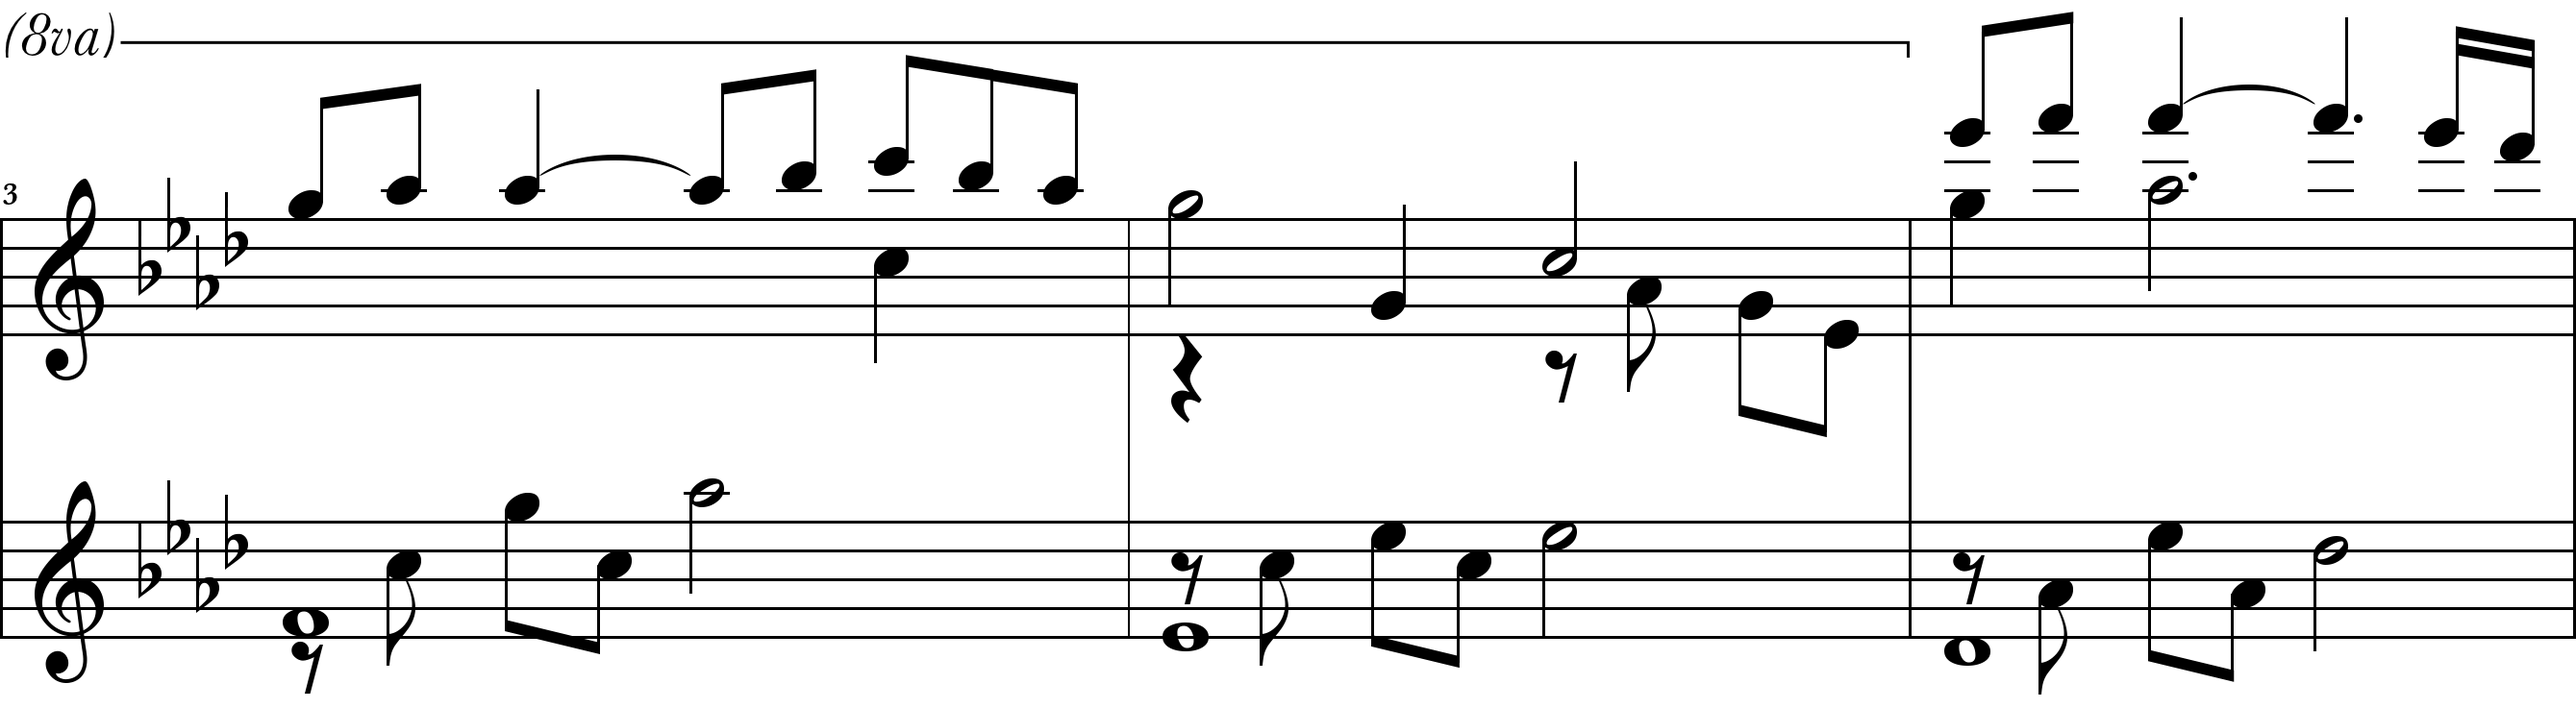
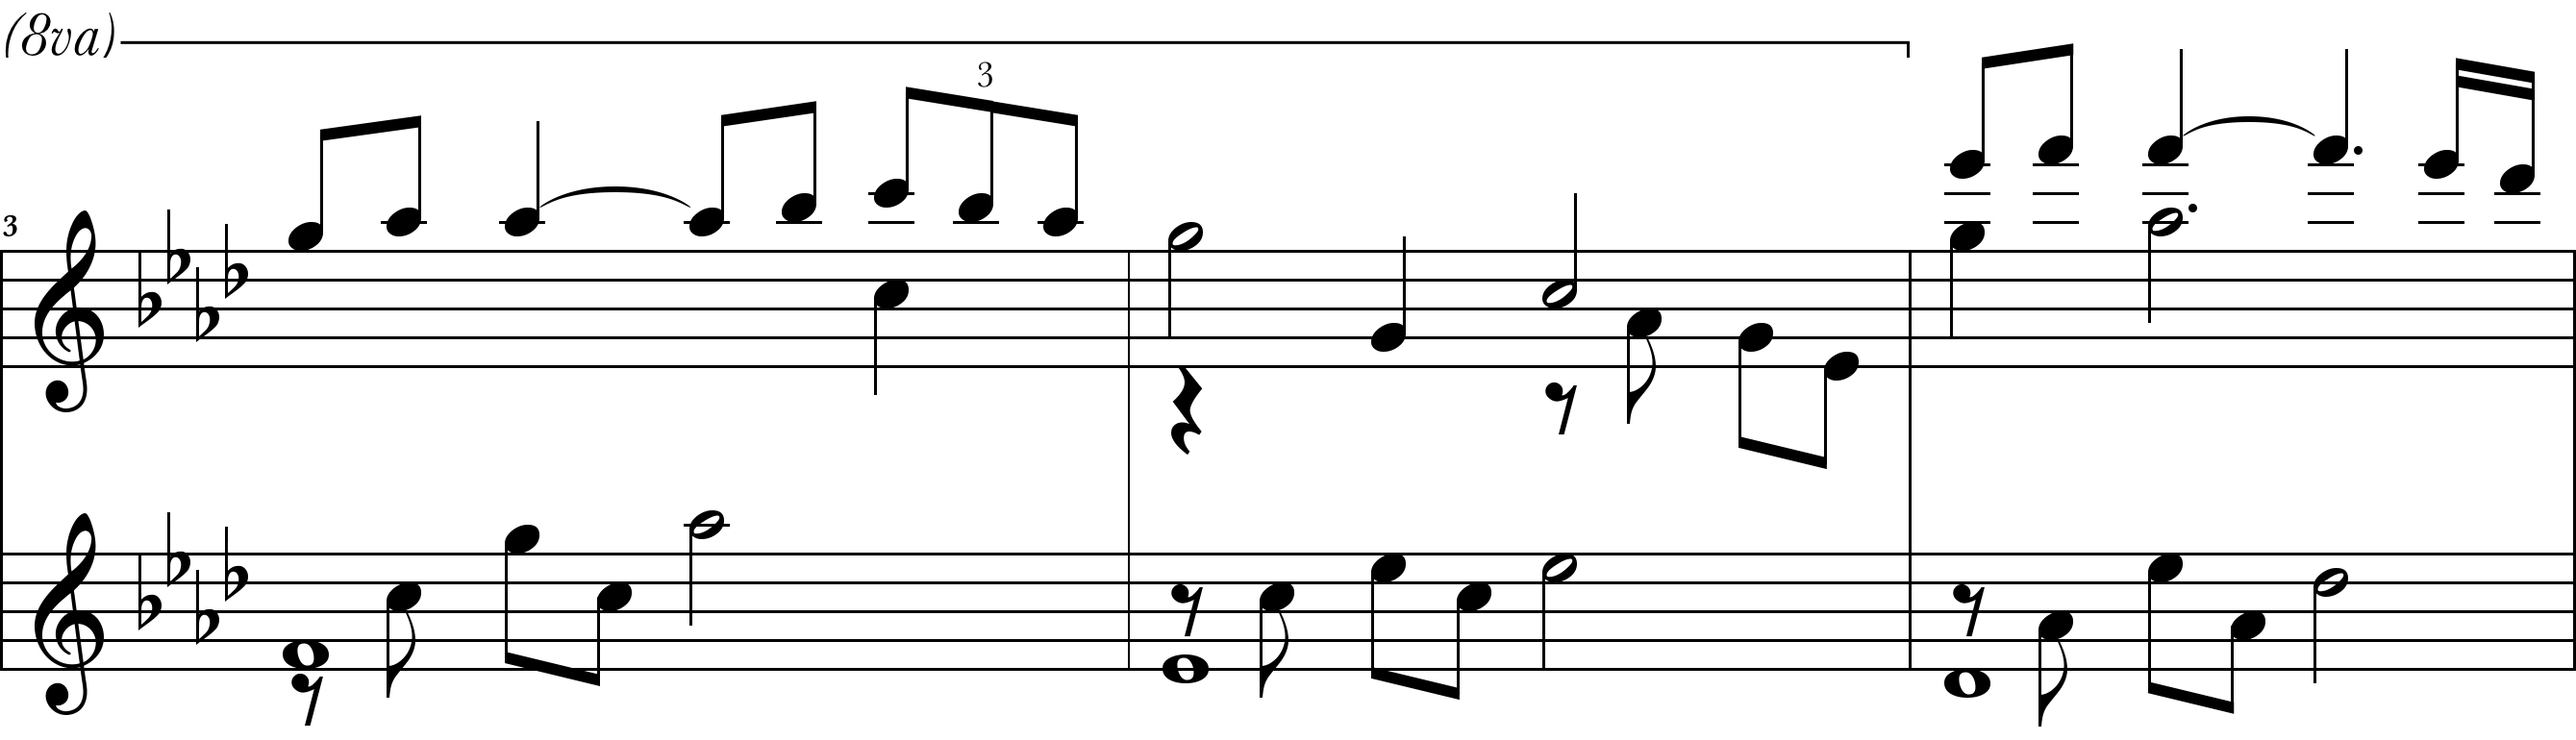
Add support for tuplets
Fix venturemedia/intune-ios#200

diff --git a/MusicKitAppTests/VMKTieLayerTests.mm b/MusicKitAppTests/VMKTieLayerTests.mm
@@ -125,9 +125,9 @@ using namespace mxml::dom;
         articulation->setType(dom::Articulation::Type::Accent);
 
         auto notations = std::unique_ptr<dom::Notations>(new Notations{});
-        notations->addSlur(std::move(slur));
-        notations->addArticulation(std::move(articulation));
-        note->setNotations(std::move(notations));
+        notations->slurs.push_back(std::move(slur));
+        notations->articulations.push_back(std::move(articulation));
+        note->notations = std::move(notations);
     }
     {
         auto note = builder->addNote(self.measure, mxml::dom::Note::Type::Quarter, time++, 1);
@@ -148,9 +148,9 @@ using namespace mxml::dom;
         articulation->setType(dom::Articulation::Type::Staccato);
 
         auto notations = std::unique_ptr<dom::Notations>(new Notations{});
-        notations->addSlur(std::move(slur));
-        notations->addArticulation(std::move(articulation));
-        note->setNotations(std::move(notations));
+        notations->slurs.push_back(std::move(slur));
+        notations->articulations.push_back(std::move(articulation));
+        note->notations = std::move(notations);
     }
 
     auto score = builder->build();
@@ -178,9 +178,9 @@ using namespace mxml::dom;
         articulation->setType(dom::Articulation::Type::Accent);
 
         auto notations = std::unique_ptr<dom::Notations>(new Notations{});
-        notations->addSlur(std::move(slur));
-        notations->addArticulation(std::move(articulation));
-        note->setNotations(std::move(notations));
+        notations->slurs.push_back(std::move(slur));
+        notations->articulations.push_back(std::move(articulation));
+        note->notations = std::move(notations);
     }
     {
         auto note = builder->addNote(self.measure, mxml::dom::Note::Type::Quarter, time++, 1);
@@ -201,9 +201,9 @@ using namespace mxml::dom;
         articulation->setType(dom::Articulation::Type::Staccato);
 
         auto notations = std::unique_ptr<dom::Notations>(new Notations{});
-        notations->addSlur(std::move(slur));
-        notations->addArticulation(std::move(articulation));
-        note->setNotations(std::move(notations));
+        notations->slurs.push_back(std::move(slur));
+        notations->articulations.push_back(std::move(articulation));
+        note->notations = std::move(notations);
     }
 
     auto score = builder->build();
@@ -228,8 +228,8 @@ using namespace mxml::dom;
         slur->setType(dom::kStart);
 
         auto notations = std::unique_ptr<dom::Notations>(new Notations{});
-        notations->addSlur(std::move(slur));
-        note->setNotations(std::move(notations));
+        notations->slurs.push_back(std::move(slur));
+        note->notations = std::move(notations);
     }
     {
         auto note = builder->addNote(self.measure, mxml::dom::Note::Type::Quarter, time++, 1);
@@ -243,8 +243,8 @@ using namespace mxml::dom;
         slur->setType(dom::kStop);
 
         auto notations = std::unique_ptr<dom::Notations>(new Notations{});
-        notations->addSlur(std::move(slur));
-        note->setNotations(std::move(notations));
+        notations->slurs.push_back(std::move(slur));
+        note->notations = std::move(notations);
     }
 
     auto score = builder->build();
@@ -269,8 +269,8 @@ using namespace mxml::dom;
         slur->setType(dom::kStart);
 
         auto notations = std::unique_ptr<dom::Notations>(new Notations{});
-        notations->addSlur(std::move(slur));
-        note->setNotations(std::move(notations));
+        notations->slurs.push_back(std::move(slur));
+        note->notations = std::move(notations);
     }
     {
         auto note = builder->addNote(self.measure, mxml::dom::Note::Type::Quarter, time++, 1);
@@ -284,8 +284,8 @@ using namespace mxml::dom;
         slur->setType(dom::kStop);
 
         auto notations = std::unique_ptr<dom::Notations>(new Notations{});
-        notations->addSlur(std::move(slur));
-        note->setNotations(std::move(notations));
+        notations->slurs.push_back(std::move(slur));
+        note->notations = std::move(notations);
     }
 
     auto score = builder->build();

diff --git a/MusicKit/Layers/VMKTupletLayer.mm b/MusicKit/Layers/VMKTupletLayer.mm
@@ -1,0 +1,87 @@
+//  Copyright (c) 2015 Venture Media Labs. All rights reserved.
+
+#import "VMKTupletLayer.h"
+#import "VMKGeometry.h"
+#import <CoreText/CoreText.h>
+
+
+@implementation VMKTupletLayer
+
+- (instancetype)initWithTupletGeometry:(const mxml::TupletGeometry*)tupletGeometry {
+    return [super initWithGeometry:tupletGeometry];
+}
+
+- (const mxml::TupletGeometry*)tupletGeometry {
+    return static_cast<const mxml::TupletGeometry*>(self.geometry);
+}
+
+- (void)setTupletGeometry:(const mxml::TupletGeometry*)tupletGeometry {
+    self.geometry = tupletGeometry;
+}
+
+- (void)setGeometry:(const mxml::Geometry*)geometry {
+    [super setGeometry:geometry];
+    [self setNeedsDisplay];
+}
+
+- (void)drawInContext:(CGContextRef)ctx {
+    static const CGFloat kLineWidth = 1.0;
+
+    CGContextSetFillColorWithColor(ctx, self.backgroundColor);
+    CGContextSetStrokeColorWithColor(ctx, self.foregroundColor.CGColor);
+
+    auto geom = self.tupletGeometry;
+
+    CTFontRef font = CTFontCreateWithName(CFSTR("Baskerville"), 13.0, NULL);
+    NSDictionary* attribs = @{ (id)kCTFontAttributeName: (__bridge id)font };
+    NSString* stringToDraw = [NSString stringWithFormat:@"%d", geom->displayNumber()];
+    NSMutableAttributedString* attributedStringToDraw = [[NSMutableAttributedString alloc] initWithString:stringToDraw attributes:attribs];
+
+    // Flip the context coordinates
+    CGContextTranslateCTM(ctx, 0, self.bounds.size.height);
+    CGContextScaleCTM(ctx, 1.0, -1.0);
+
+    // draw
+    CGContextSetTextMatrix(ctx, CGAffineTransformIdentity);
+    CGContextSetTextPosition(ctx, CGRectGetMidX(self.bounds), 1);
+    CTLineRef line = CTLineCreateWithAttributedString((CFAttributedStringRef)attributedStringToDraw);
+
+    CGRect textBounds = CTLineGetImageBounds(line, ctx);
+    CGContextFillRect(ctx, textBounds);
+    CTLineDraw(line, ctx);
+
+    // clean up
+    CFRelease(line);
+    CFRelease(font);
+    CGContextScaleCTM(ctx, 1.0, -1.0);
+    CGContextTranslateCTM(ctx, 0, -self.bounds.size.height);
+
+    // Draw bracket
+    if (geom->bracket()) {
+        CGContextSetFillColorWithColor(ctx, self.foregroundColor.CGColor);
+
+        CGRect bounds = self.bounds;
+        CGRect lineRect;
+
+        lineRect.origin.x = 0;
+        lineRect.origin.y = CGRectGetMidY(bounds);
+        lineRect.size.width = kLineWidth;
+        lineRect.size.height = CGRectGetHeight(bounds)/2;
+        CGContextFillRect(ctx, VMKRoundRect(lineRect));
+
+        lineRect.origin.x = CGRectGetMaxX(bounds) - kLineWidth;
+        CGContextFillRect(ctx, VMKRoundRect(lineRect));
+
+        lineRect.origin.x = 0;
+        lineRect.size.width = CGRectGetMinX(textBounds) - 4;
+        lineRect.size.height = kLineWidth;
+        CGContextFillRect(ctx, VMKRoundRect(lineRect));
+
+        lineRect.origin.x = CGRectGetMaxX(textBounds) + 4;
+        lineRect.size.width = CGRectGetWidth(bounds) - lineRect.origin.x;
+        CGContextFillRect(ctx, VMKRoundRect(lineRect));
+    }
+}
+
+
+@end

diff --git a/MusicKitAppTests/VMKTupletLayerTests.mm b/MusicKitAppTests/VMKTupletLayerTests.mm
@@ -1,0 +1,75 @@
+//  Copyright (c) 2015 Venture Media Labs. All rights reserved.
+
+#import "VMKAdHocScoreTestCase.h"
+#import "VMKPartLayer.h"
+#import "VMKTieLayer.h"
+
+#include <mxml/dom/Tuplet.h>
+#include <mxml/geometry/PartGeometry.h>
+#include <mxml/geometry/ScrollScoreGeometry.h>
+#include <mxml/geometry/factories/TieGeometryFactory.h>
+
+using namespace mxml;
+
+
+@interface VMKTupletLayerTests : VMKAdHocScoreTestCase
+
+@end
+
+
+@implementation VMKTupletLayerTests
+
+- (void)testTuplet {
+    auto builder = self.builder;
+    auto time = dom::time_t{};
+
+    {
+        auto note = builder->addNote(self.measure, mxml::dom::Note::Type::Quarter, time++, 1);
+        builder->setPitch(note, mxml::dom::Pitch::Step::E, 5);
+
+        note->timeModification.reset(new dom::TimeModification{});
+        note->timeModification->actualNotes = 3;
+        note->timeModification->normalNotes = 2;
+
+        auto tuplet = std::unique_ptr<dom::Tuplet>(new dom::Tuplet{});
+        tuplet->type = dom::Tuplet::Type::Start;
+
+        auto notations = std::unique_ptr<dom::Notations>(new dom::Notations{});
+        notations->tuplets.push_back(std::move(tuplet));
+        note->notations = std::move(notations);
+    }
+    {
+        auto note = builder->addNote(self.measure, mxml::dom::Note::Type::Quarter, time++, 1);
+        builder->setPitch(note, mxml::dom::Pitch::Step::B, 4);
+
+        note->timeModification.reset(new dom::TimeModification{});
+        note->timeModification->actualNotes = 3;
+        note->timeModification->normalNotes = 2;
+    }
+    {
+        auto note = builder->addNote(self.measure, mxml::dom::Note::Type::Quarter, time++, 1);
+        builder->setPitch(note, mxml::dom::Pitch::Step::E, 4);
+
+        note->timeModification.reset(new dom::TimeModification{});
+        note->timeModification->actualNotes = 3;
+        note->timeModification->normalNotes = 2;
+
+        auto tuplet = std::unique_ptr<dom::Tuplet>(new dom::Tuplet{});
+        tuplet->type = dom::Tuplet::Type::Stop;
+
+        auto notations = std::unique_ptr<dom::Notations>(new dom::Notations{});
+        notations->tuplets.push_back(std::move(tuplet));
+        note->notations = std::move(notations);
+    }
+
+    auto score = builder->build();
+    auto scoreGeometry = std::unique_ptr<mxml::ScrollScoreGeometry>(new mxml::ScrollScoreGeometry(*score, true));
+    auto partGeometry = scoreGeometry->partGeometries().front();
+    VMKPartLayer* layer = [[VMKPartLayer alloc] initWithPartGeometry:partGeometry];
+
+    [self calculateRenderingErrors:layer forSelector:_cmd testBlock:^(VMKRenderingErrors errors) {
+        XCTAssertLessThanOrEqual(errors.maximumError, kMaximumError);
+    }];
+}
+
+@end

diff --git a/MusicKitAppTests/VMKChordLayerTests.mm b/MusicKitAppTests/VMKChordLayerTests.mm
@@ -184,7 +184,7 @@ using namespace mxml::dom;
     self.builder->setPitch(note, Pitch::Step::G, 4);
     
     auto placement = std::unique_ptr<EmptyPlacement>(new EmptyPlacement{});
-    note->setDot(std::move(placement));
+    note->dot = std::move(placement);
 
     auto score = self.builder->build();
     ScoreProperties properties(*score, mxml::ScoreProperties::LayoutType::Scroll);
@@ -205,7 +205,7 @@ using namespace mxml::dom;
     self.builder->setPitch(note, Pitch::Step::G, 4);
     
     auto accidential = std::unique_ptr<Accidental>(new Accidental{Accidental::Type::Sharp});
-    note->setAccidental(std::move(accidential));
+    note->accidental = std::move(accidential);
 
     auto score = self.builder->build();
     ScoreProperties properties(*score, mxml::ScoreProperties::LayoutType::Scroll);
@@ -228,8 +228,8 @@ using namespace mxml::dom;
     auto articulation = std::unique_ptr<Articulation>(new Articulation{Articulation::Type::Accent});
     
     auto notations = std::unique_ptr<Notations>(new Notations{});
-    notations->addArticulation(std::move(articulation));
-    note->setNotations(std::move(notations));
+    notations->articulations.push_back(std::move(articulation));
+    note->notations = std::move(notations);
 
     auto score = self.builder->build();
     ScoreProperties properties(*score, mxml::ScoreProperties::LayoutType::Scroll);

diff --git a/MusicKit/Layers/VMKMeasureLayer.mm b/MusicKit/Layers/VMKMeasureLayer.mm
@@ -11,6 +11,7 @@
 #import "VMKNoteHeadLayer.h"
 #import "VMKTieLayer.h"
 #import "VMKTimeSignatureLayer.h"
+#import "VMKTupletLayer.h"
 #import "VMKRestLayer.h"
 
 #include <mxml/Metrics.h>
@@ -20,6 +21,7 @@
 #include <mxml/geometry/ClefGeometry.h>
 #include <mxml/geometry/KeyGeometry.h>
 #include <mxml/geometry/TimeSignatureGeometry.h>
+#include <mxml/geometry/TupletGeometry.h>
 
 #include <iterator>
 #include <limits>
@@ -174,6 +176,11 @@ const CGFloat VMKBarLineWidth = 1;
             VMKRestLayer* layer = [self reusableLayerOfClass:[VMKRestLayer class]];
             [self configureView:layer];
             layer.geometry = rest;
+            [_elementLayers addObject:layer];
+        } else if (const TupletGeometry* tuplet = dynamic_cast<const TupletGeometry*>(geom.get())) {
+            VMKTupletLayer* layer = [self reusableLayerOfClass:[VMKTupletLayer class]];
+            [self configureView:layer];
+            layer.geometry = tuplet;
             [_elementLayers addObject:layer];
         }
     }

diff --git a/MusicKit/Layers/VMKTupletLayer.h b/MusicKit/Layers/VMKTupletLayer.h
@@ -1,0 +1,13 @@
+//  Copyright (c) 2015 Venture Media Labs. All rights reserved.
+
+#import "VMKScoreElementLayer.h"
+#include <mxml/geometry/TupletGeometry.h>
+
+
+@interface VMKTupletLayer : VMKScoreElementLayer
+
+- (instancetype)initWithTupletGeometry:(const mxml::TupletGeometry*)geom;
+
+@property(nonatomic) const mxml::TupletGeometry* tupletGeometry;
+
+@end

diff --git a/MusicKitAppTests/VMKFileScoreTestCase.mm b/MusicKitAppTests/VMKFileScoreTestCase.mm
@@ -13,7 +13,7 @@
     NSBundle* bundle = [NSBundle bundleForClass:[self class]];
     NSString* path = [bundle pathForResource:name ofType:@"xml"];
 
-    mxml::ScoreHandler handler;
+    mxml::parsing::ScoreHandler handler;
     std::ifstream is([path UTF8String]);
     lxml::parse(is, [path UTF8String], handler);
     return handler.result();

diff --git a/MusicKitAppTests/VMKBeamLayerTests.mm b/MusicKitAppTests/VMKBeamLayerTests.mm
@@ -233,7 +233,7 @@ using namespace mxml::dom;
     note2->setStem(Stem::Down);
     
     auto accidental = std::unique_ptr<Accidental>(new Accidental{Accidental::Type::Sharp});
-    note2->setAccidental(std::move(accidental));
+    note2->accidental = std::move(accidental);
 
     auto score = self.builder->build();
 

diff --git a/MusicKitAppTests/VMKPageScoreLayoutTests.mm b/MusicKitAppTests/VMKPageScoreLayoutTests.mm
@@ -43,7 +43,7 @@
 }
 
 - (void)load:(NSString*)path {
-    mxml::ScoreHandler handler;
+    mxml::parsing::ScoreHandler handler;
     std::ifstream is([path UTF8String]);
     lxml::parse(is, [path UTF8String], handler);
     _score = handler.result();

diff --git a/MusicKitAppTests/VMKScrollScoreLayoutTests.mm b/MusicKitAppTests/VMKScrollScoreLayoutTests.mm
@@ -47,7 +47,7 @@
 }
 
 - (void)load:(NSString*)path {
-    mxml::ScoreHandler handler;
+    mxml::parsing::ScoreHandler handler;
     std::ifstream is([path UTF8String]);
     lxml::parse(is, [path UTF8String], handler);
     _score = handler.result();
